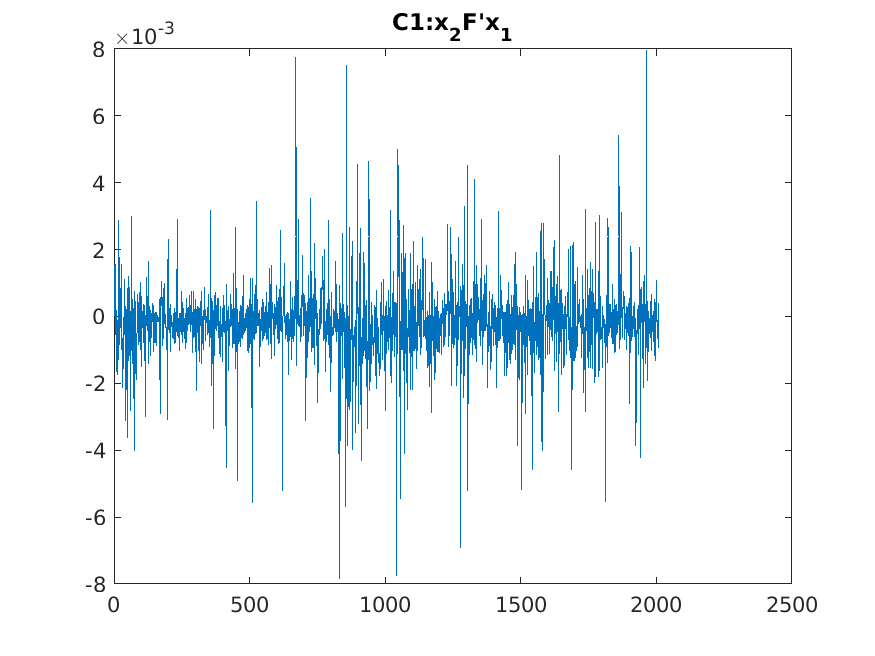
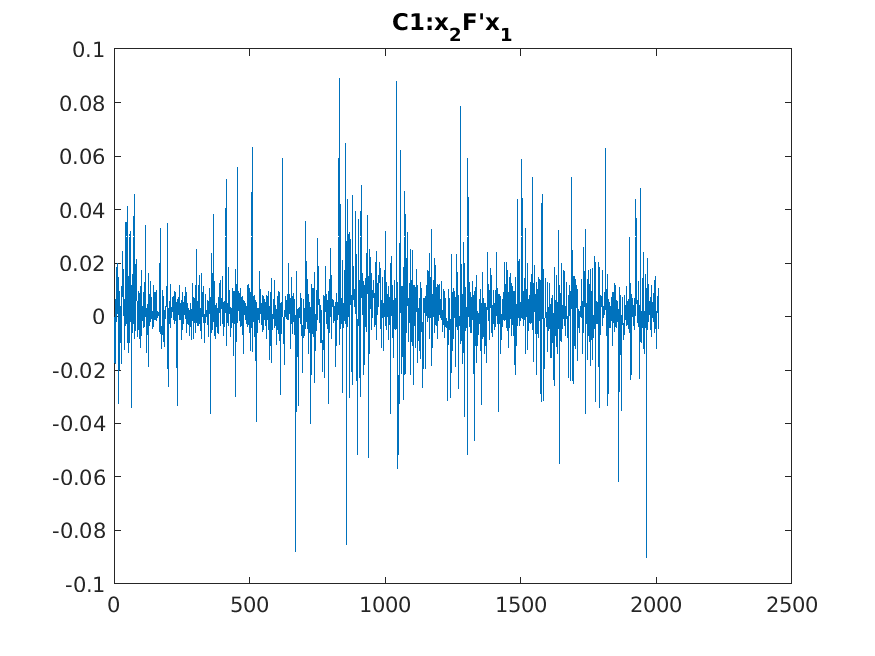
update c1

diff --git a/assignment/A3/run1.m b/assignment/A3/run1.m
@@ -12,13 +12,18 @@ img_2 = imread('data/kronan2.JPG');
 
 
 % with normalization
-% 
-N_1 = buildN(x{1})
-N_2 = buildN(x{2})
+% % Part 1 start 
+% N_1 = buildN(x{1})
+% N_2 = buildN(x{2})
+% flag_str = ""
+% Part 1 end
 
 % without normalization
-% N_1 = [1 0 0; 0 1 0; 0 0 1];
-% N_2 = [1 0 0; 0 1 0; 0 0 1];
+% Part 2 start 
+N_1 = [1 0 0; 0 1 0; 0 0 1];
+N_2 = [1 0 0; 0 1 0; 0 0 1];
+flag_str = "-P2"
+% Part 2 end
 
 % normalize x with N1 and N2
 x_1_n = N_1 * x{1};
@@ -36,18 +41,22 @@ minimum_s = S(9:9)
 det_F_n = det(F_n)
 
 bF_n = enforce_fundamental(F_n);
+% make bF_n(3,3) = 1
+bF_n = bF_n ./bF_n(3,3)
 
 det_bF_n = det(bF_n)
 
+% check y'Fx=0
 plot(diag(x_2_n'*bF_n*x_1_n));
-title("C1:x_{2_n}F_n'x_{1_n}");
-saveas(gcf,"c1_1.png");
+title("C1:x_{2_n}F_n'x_{1_n}" + flag_str);
+saveas(gcf,"c1_1" + flag_str + ".png");
 
 % compute the un_normalized fundamental matrix F
-F = N_2'*bF_n*N_1
+F = N_2'*bF_n*N_1;
+F = F ./ F(3,3)
 plot(diag(x{2}'*F*x{1}));
-title("C1:x_{2}F'x_{1}");
-saveas(gcf,"c1_2.png");
+title("C1:x_{2}F'x_{1}" + flag_str);
+saveas(gcf,"c1_2"+ flag_str +".png");
 
 l = F*x{1};
 %l = l./sqrt(repmat(l(1,:).^2 +l(2,:).^2,[3 1]));
@@ -58,14 +67,15 @@ hold on
 plot(x{2}(1,random_index),x{2}(2,random_index), '*', 'Color','r');
 rital(l(:,random_index));
 hold off
-title("C1:random 20 points and epipolar lines");
-saveas(gcf,"c1_3.png");
+title("C1:random 20 points and epipolar lines" + flag_str);
+saveas(gcf,"c1_3"+ flag_str+".png");
 
 % compute error and plot in a historgram
 errors_n = compute_epipolar_errors(F,x{1},x{2});
 
+% mean error (distance)
 mean_error_n = mean(errors_n)
 hist(errors_n,100);
-title("C1: distance between all the points and their corresponding epipolar lines");
-saveas(gcf,"c1_4.png");
+title("C1: distance between all the points and their corresponding epipolar lines" + flag_str);
+saveas(gcf,"c1_4"+ flag_str +".png");
 

diff --git a/assignment/A3/report.md b/assignment/A3/report.md
@@ -138,6 +138,70 @@ F = N_2^T\~FN_1
 ```
 
 ####  Computer exercise 1
+code run1.m is for this exercise. comment line 15-24 to run for part 1 and part 2. 
+##### Part 1
++ (1) normalization matrices $N_1$, $N_2$
+```matlab
+N_1 =
+
+    0.0024         0   -2.0255
+         0    0.0030   -2.0046
+         0         0    1.0000
+
+N_2 =
+
+    0.0022         0   -1.6745
+         0    0.0029   -1.9181
+         0         0    1.0000
+```
+
++ (2) estimate_F_DLT 
+
+normalized F
+```matlab
+  bF_n =
+      0.1532   13.3245  -35.0541
+    -16.0833   -0.7902  184.6120
+    40.9953 -186.5937    1.0000
+``` 
+verify $\~x_2^T\~F\~x_1=0$
+![img](./c1_1.png)
+
+unormalized $F$:
+```matlab
+  F =
+
+    -0.0000   -0.0000    0.0058
+      0.0000    0.0000   -0.0267
+    -0.0072    0.0263    1.0000
+```
+
++ (3) epiploar lines with points 
+
+![img](./c1_3.png)
+
+**mean distance: 0.3612**
+
+historgram with 100 bins
+![img](./c1_4.png)
+
+##### Part 2
++ (1) unormalized $F$:
+```matlab
+  F =
+   -0.0000   -0.0000    0.0058
+    0.0000    0.0000   -0.0266
+   -0.0072    0.0262    1.0000
+```
++ (2) 
+verify $\~x_2^T\~F\~x_1=0$
+
+![img](./c1_2-P2.png)
+
+**mean distance: 0.4878**
+
+historgram with 100 bins
+![img](./c1_4-P2.png)
 
 ####  Theoratical exercise 5
 
@@ -196,6 +260,9 @@ First apply elimination to $F^T$, we get
 Thus $e_2 = (-1,0,1)^T$.
 Same, we can get $e_1$, because $e_1 \in null(F)$. $e_1 = (-2,-1,1)^T$
 
+
+
+### The Essential Matrix
 ####  Theoratical exercise 6
 + （1）
 
